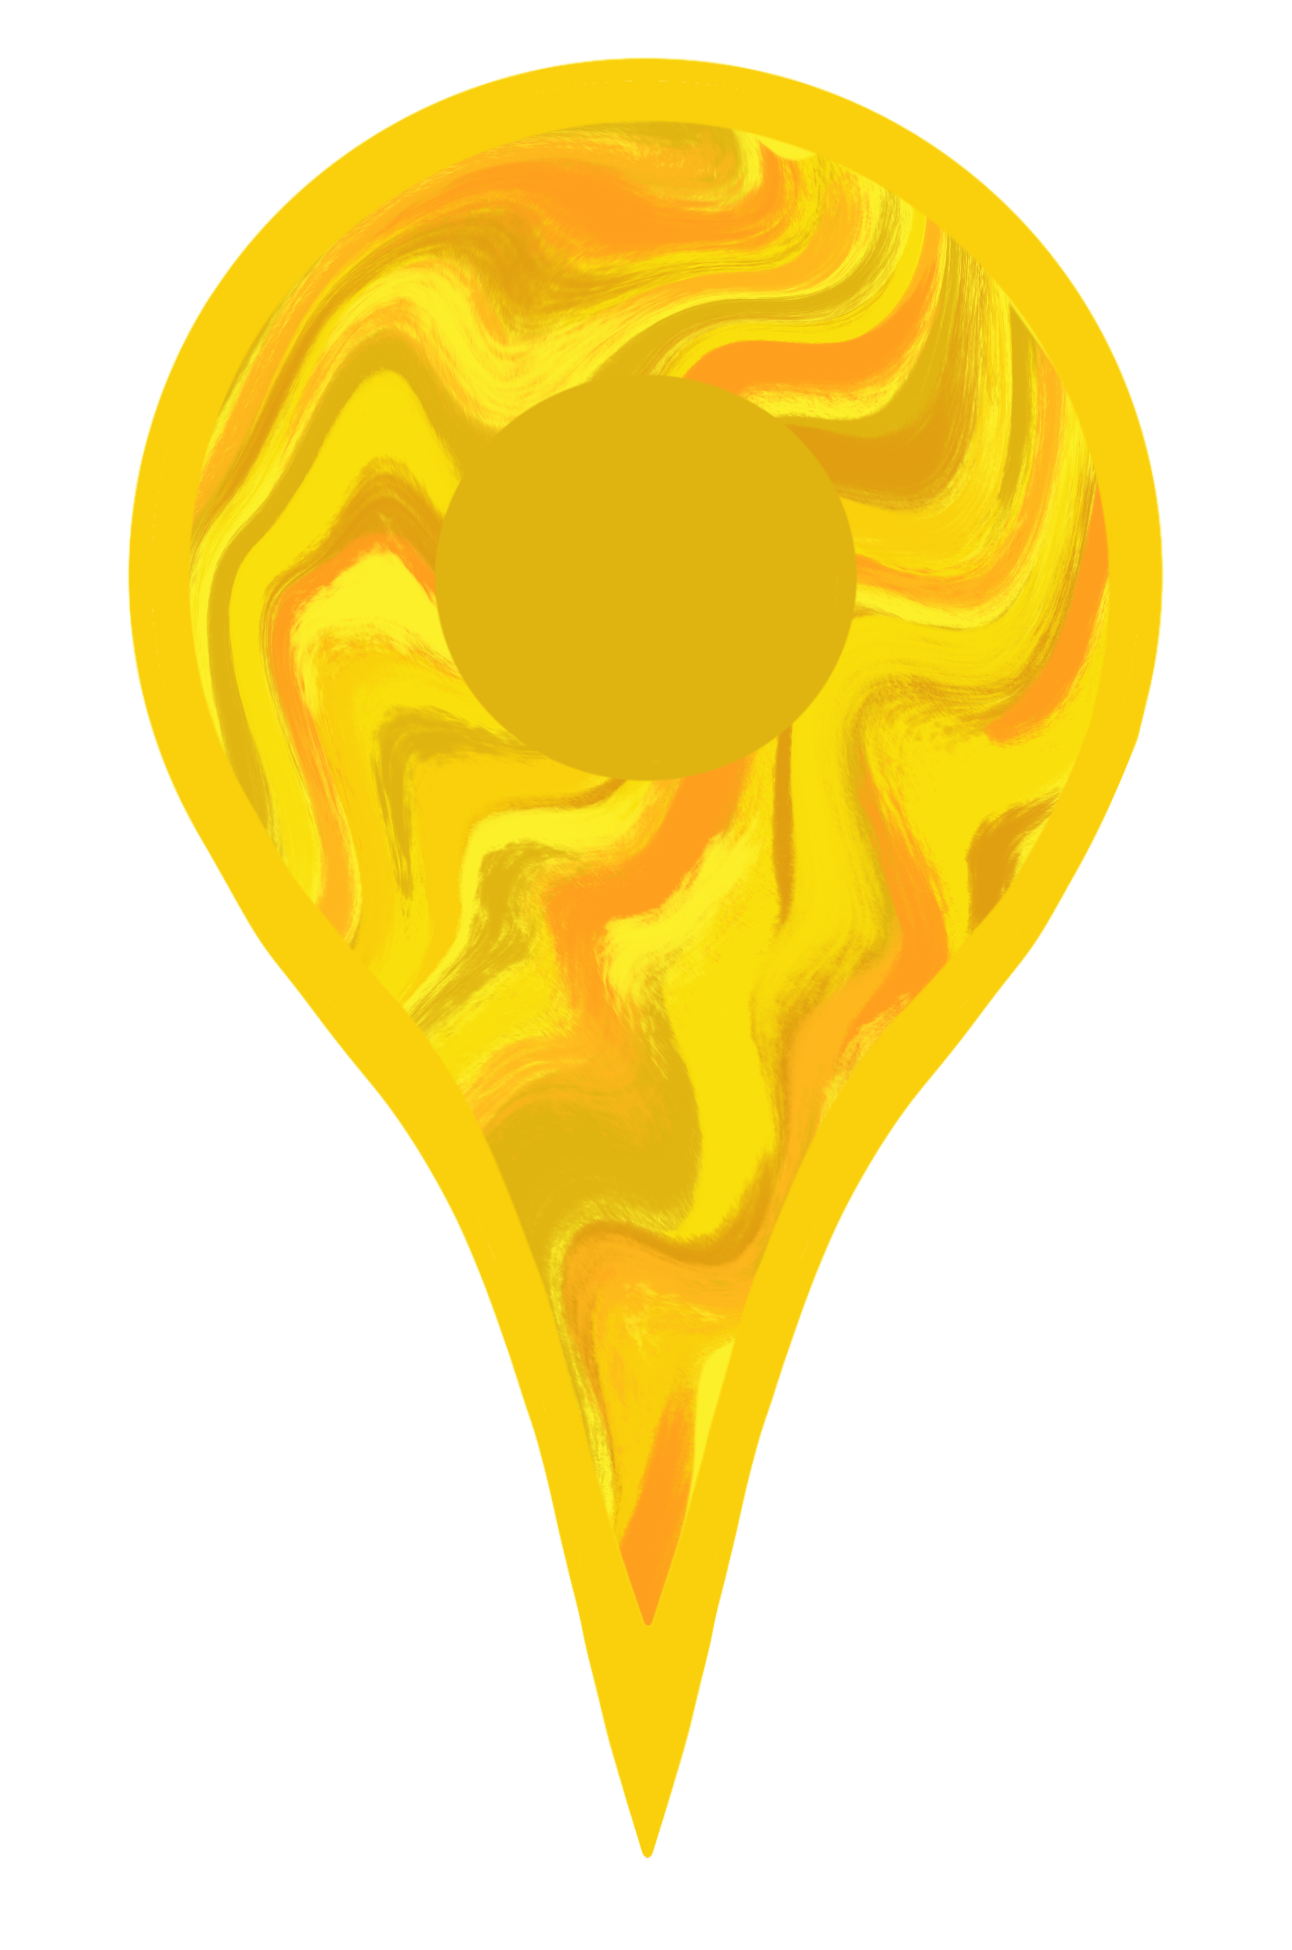
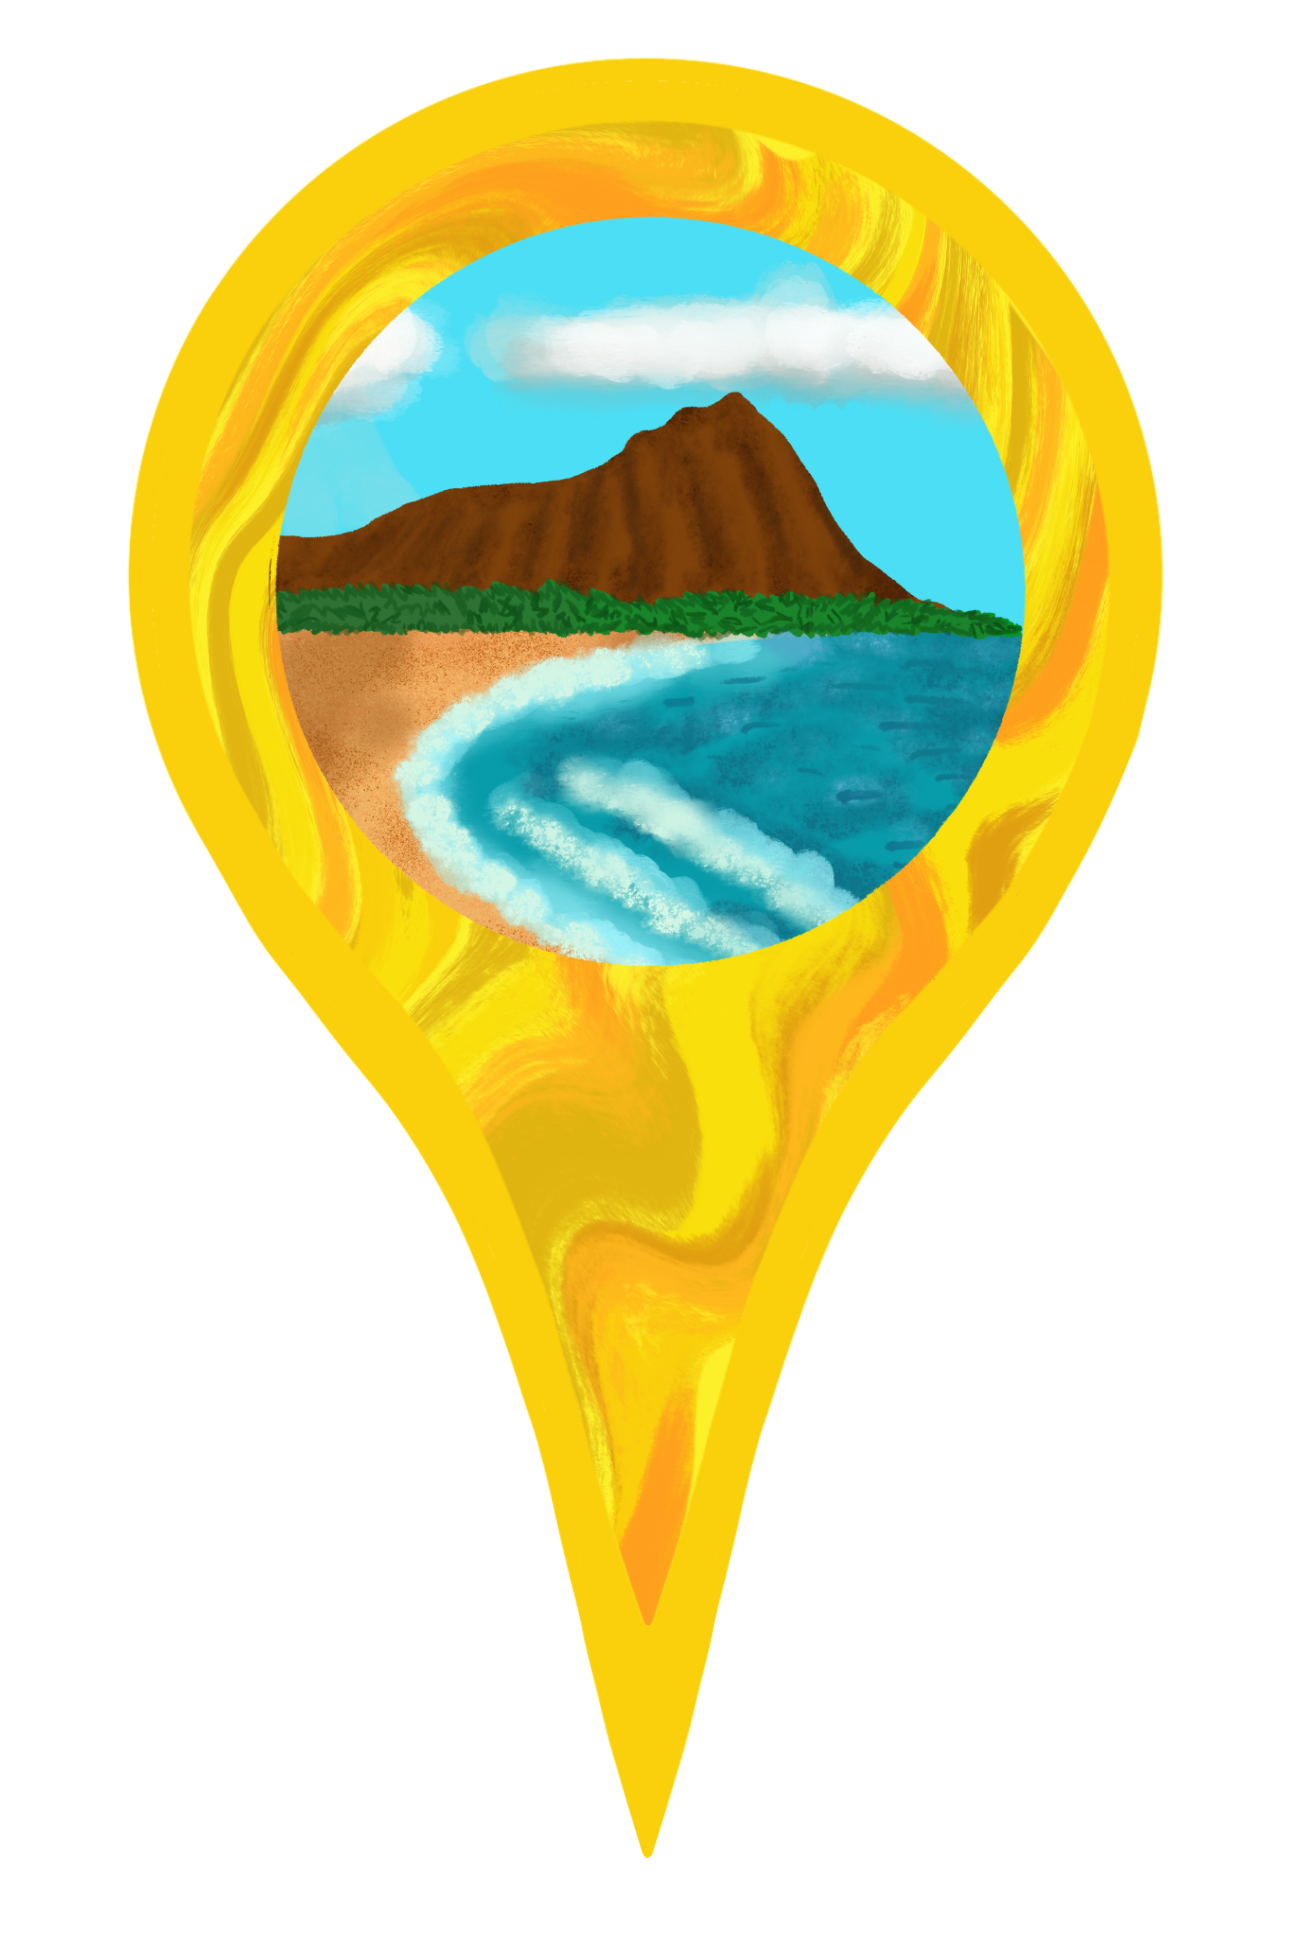
Remaining emoji items added

Changed region(s): [[0.1858, 0.0923, 0.805, 0.5231]]

diff --git a/lokahi_server.py b/lokahi_server.py
@@ -281,6 +281,7 @@ def show_trip_details(trip_id):
 
     places_by_day= {}
     places_by_category= {}
+    banners_by_cat = {}
 
     for place in places_by_trip:
         if place.itinerary_dt == None:
@@ -473,13 +474,77 @@ def save_place_data():
     'Entertainment': '/static/img/emojis/20-entertain-emoji.png',
     'Music': '/static/img/pins/21-music-pin.png',
     'Hot Spring': '/static/img/emojis/22-onsen-emoji.png',
-    'Beach': '/static/img/pins/23-beach-pin.png',
-    'Park': '/static/img/pins/24-park-pin.png',
-    'Hiking': '/static/img/pins/25-hiking-pin.png',
-    'Surfing': '/static/img/pins/26-surf-pin.png',
-    'Workspace': '/static/img/pins/27-work-pin.png',
-    'COVID Testing': '/static/img/pins/28-covid-pin.png',
-    'Miscellaneous': '/static/img/pins/29-misc-pin.png'}
+    'Beach': '/static/img/emojis/23-beach-emoji.png',
+    'Park': '/static/img/emojis/24-park-emoji.png',
+    'Hiking': '/static/img/emojis/25-hiking-emoji.png',
+    'Surfing': '/static/img/emojis/26-surf-emoji.png',
+    'Workspace': '/static/img/emojis/27-work-emoji.png',
+    'COVID Testing': '/static/img/emojis/28-covid-emoji.png',
+    'Miscellaneous': '/static/img/emojis/29-misc-emoji.png'}
+
+    cat_banners = {
+    'Breakfast': '/static/img/cat_banners/1-breakfast-banner.png',
+    'Lunch': '/static/img/cat_banners/2-lunch-banner.png',
+    'Dinner': '/static/img/cat_banners/3-dinner-banner.png',
+    'Streetfood': '/static/img/cat_banners/4-streetfood-banner.png',
+    'Dessert': '/static/img/cat_banners/5-dessert-banner.png',
+    'Cafe': '/static/img/cat_banners/6-cafe-banner.png',
+    'Nightlife': '/static/img/cat_banners/7-nightlife-banner.png',
+    'Bar/Pub': '/static/img/cat_banners/8-bar-banner.png',
+    'Shopping': '/static/img/cat_banners/9-shopping-banner.png',
+    'Groceries': '/static/img/cat_banners/10-grocery-banner.png',
+    'Convenience Store': '/static/img/cat_banners/11-kombini-banner.png',
+    'Outdoor Market': '/static/img/cat_banners/12-farmers-market-banner.png',
+    'Covered Market': '/static/img/cat_banners/13-bazaar-banner.png',
+    'Bookstore/Library': '/static/img/cat_banners/14-bookstore-banner.png',
+    'Train Station': '/static/img/cat_banners/15-train-banner.png',
+    'Museum': '/static/img/cat_banners/16-museum-banner.png',
+    'Landmark': '/static/img/cat_banners/17-landmark-banner.png',
+    'Photo Spot': '/static/img/cat_banners/18-photo-banner.png',
+    'Temple/Shrine/Worship': '/static/img/cat_banners/19-shrine-banner.png',
+    'Entertainment': '/static/img/cat_banners/20-entertain-banner.png',
+    'Music': '/static/img/cat_banners/21-music-banner.png',
+    'Hot Spring': '/static/img/cat_banners/22-onsen-banner.png',
+    'Beach': '/static/img/cat_banners/23-beach-banner.png',
+    'Park': '/static/img/cat_banners/24-park-banner.png',
+    'Hiking': '/static/img/cat_banners/25-hiking-banner.png',
+    'Surfing': '/static/img/cat_banners/26-surf-banner.png',
+    'Workspace': '/static/img/cat_banners/27-work-banner.png',
+    'COVID Testing': '/static/img/cat_banners/28-covid-banner.png',
+    'Miscellaneous': '/static/img/cat_banners/29-misc-banner.png'
+    }
+
+    cat_tds = {
+    'Breakfast': '/static/img/cat_td/1-breakfast-td.png',
+    'Lunch': '/static/img/cat_td/2-lunch-td.png',
+    'Dinner': '/static/img/cat_td/3-dinner-td.png',
+    'Streetfood': '/static/img/cat_td/4-streetfood-td.png',
+    'Dessert': '/static/img/cat_td/5-dessert-td.png',
+    'Cafe': '/static/img/cat_td/6-cafe-td.png',
+    'Nightlife': '/static/img/cat_td/7-nightlife-td.png',
+    'Bar/Pub': '/static/img/cat_td/8-bar-td.png',
+    'Shopping': '/static/img/cat_td/9-shopping-td.png',
+    'Groceries': '/static/img/cat_td/10-grocery-td.png',
+    'Convenience Store': '/static/img/cat_td/11-kombini-td.png',
+    'Outdoor Market': '/static/img/cat_td/12-farmers-market-td.png',
+    'Covered Market': '/static/img/cat_td/13-bazaar-td.png',
+    'Bookstore/Library': '/static/img/cat_td/14-bookstore-td.png',
+    'Train Station': '/static/img/cat_td/15-train-td.png',
+    'Museum': '/static/img/cat_td/16-museum-td.png',
+    'Landmark': '/static/img/cat_td/17-landmark-td.png',
+    'Photo Spot': '/static/img/cat_td/18-photo-td.png',
+    'Temple/Shrine/Worship': '/static/img/cat_td/19-shrine-td.png',
+    'Entertainment': '/static/img/cat_td/20-entertain-td.png',
+    'Music': '/static/img/cat_td/21-music-td.png',
+    'Hot Spring': '/static/img/cat_td/22-onsen-td.png',
+    'Beach': '/static/img/cat_td/23-beach-td.png',
+    'Park': '/static/img/cat_td/24-park-td.png',
+    'Hiking': '/static/img/cat_td/25-hiking-td.png',
+    'Surfing': '/static/img/cat_td/26-surf-td.png',
+    'Workspace': '/static/img/cat_td/27-work-td.png',
+    'COVID Testing': '/static/img/cat_td/28-covid-td.png',
+    'Miscellaneous': '/static/img/cat_td/29-misc-td.png'  
+    }
     
     ps_cat = request.json["psCategory"]
     ps_notes = request.json["psNotes"]
@@ -497,6 +562,8 @@ def save_place_data():
 
     cat_pin = place_pins[ps_cat]
     cat_emoji = cat_emojis[ps_cat]
+    cat_banner = cat_banners[ps_cat]
+    cat_td = cat_tds[ps_cat]
 
     user_id = session['user_id']
 
@@ -509,7 +576,8 @@ def save_place_data():
         in_itinerary = True
     
     saved_place = crud.save_place(user_id, trip_id, ps_name, ps_cat, ps_notes, in_itinerary,
-    new_ps_itin, ps_lat, ps_lng, ps_city, ps_country, cat_pin, cat_emoji)
+    new_ps_itin, ps_lat, ps_lng, ps_city, ps_country, cat_pin, cat_emoji, cat_banner,
+    cat_td)
     db.session.add(saved_place)
     db.session.commit()
     flash(f"{ps_name} saved")

diff --git a/crud.py b/crud.py
@@ -67,7 +67,7 @@ cat_pin, cat_emoji):
 
     saved_place = Place(user_id=user_id, trip_id=trip_id, category=ps_cat, place_name=ps_name, 
     latitude=ps_lat, longitude=ps_lng, in_itinerary=in_itinerary, itinerary_dt=new_ps_itin, place_city=ps_city, 
-    place_country=ps_country, cat_pin=cat_pin, cat_emoji=cat_emoji)
+    place_country=ps_country, cat_pin=cat_pin, cat_emoji=cat_emoji, cat_banner=cat_banner, cat_td=cat_td)
 
     return saved_place
 

diff --git a/model.py b/model.py
@@ -103,6 +103,8 @@ class Place(db.Model):
     category = db.Column(db.String(30), nullable= False)
     cat_pin = db.Column(db.String, nullable=True)
     cat_emoji = db.Column(db.String, nullable=True)
+    cat_banner = db.Column(db.String, nullable=True)
+    cat_td = db.Column(db.String, nullable=True)
     latitude = db.Column(db.Float, nullable= False)
     longitude = db.Column(db.Float, nullable= False)
 
